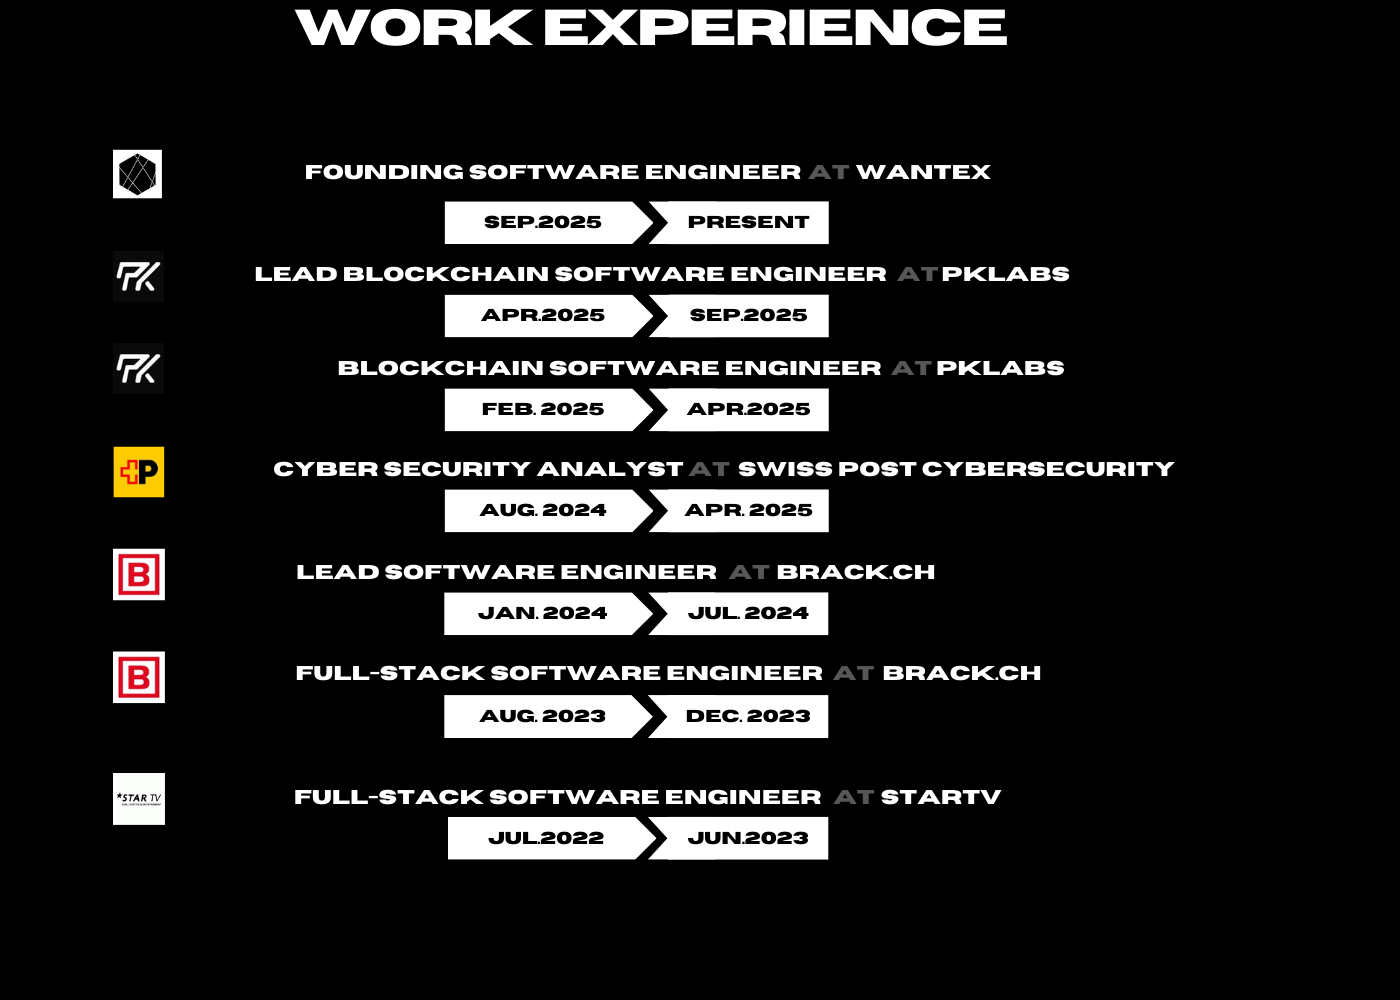
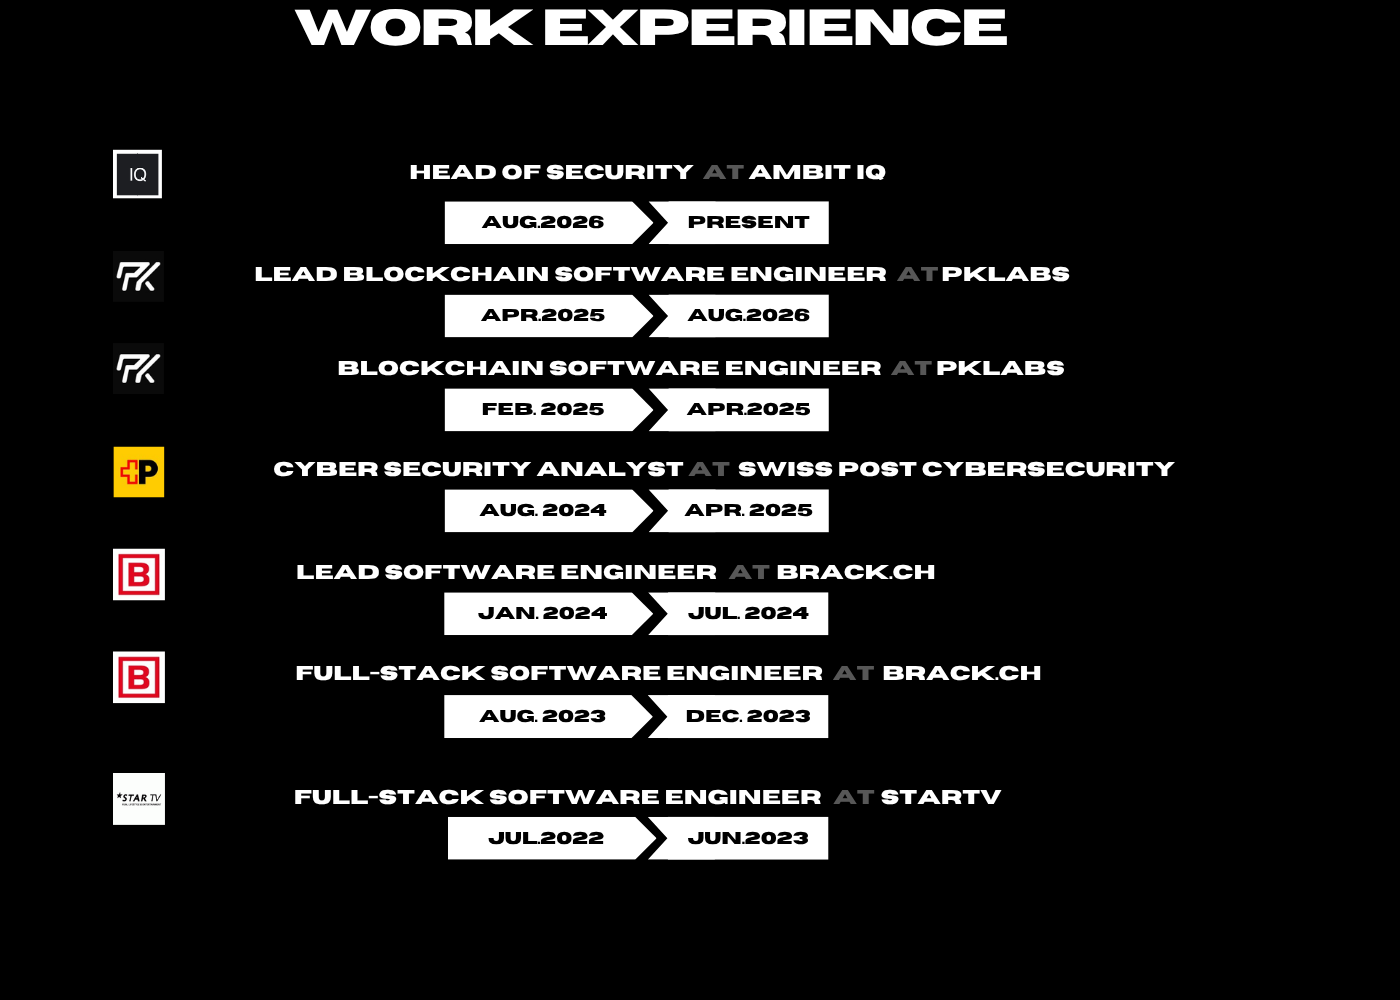
life updates

diff --git a/src/implementation/World/Sections/ProjectsSection.js b/src/implementation/World/Sections/ProjectsSection.js
@@ -163,7 +163,7 @@ export default class ProjectsSection
                 floorTexture: this.resources.items.projectsPenumbraFloorTexture,
                 link:
                     {
-                        href: 'https://explorer.penumbra.zone/',
+                        href: 'https://penumbra.davlo.io/',
                         x: - 4.8,
                         y: - 6,
                         halfExtents:
